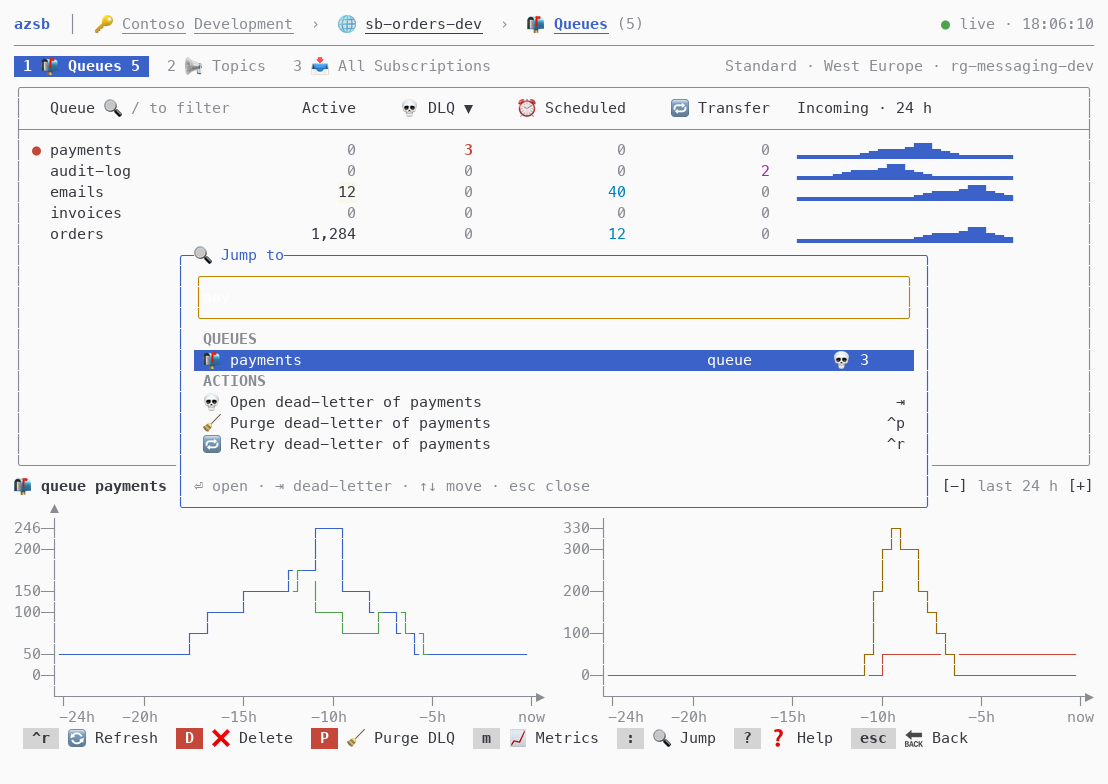
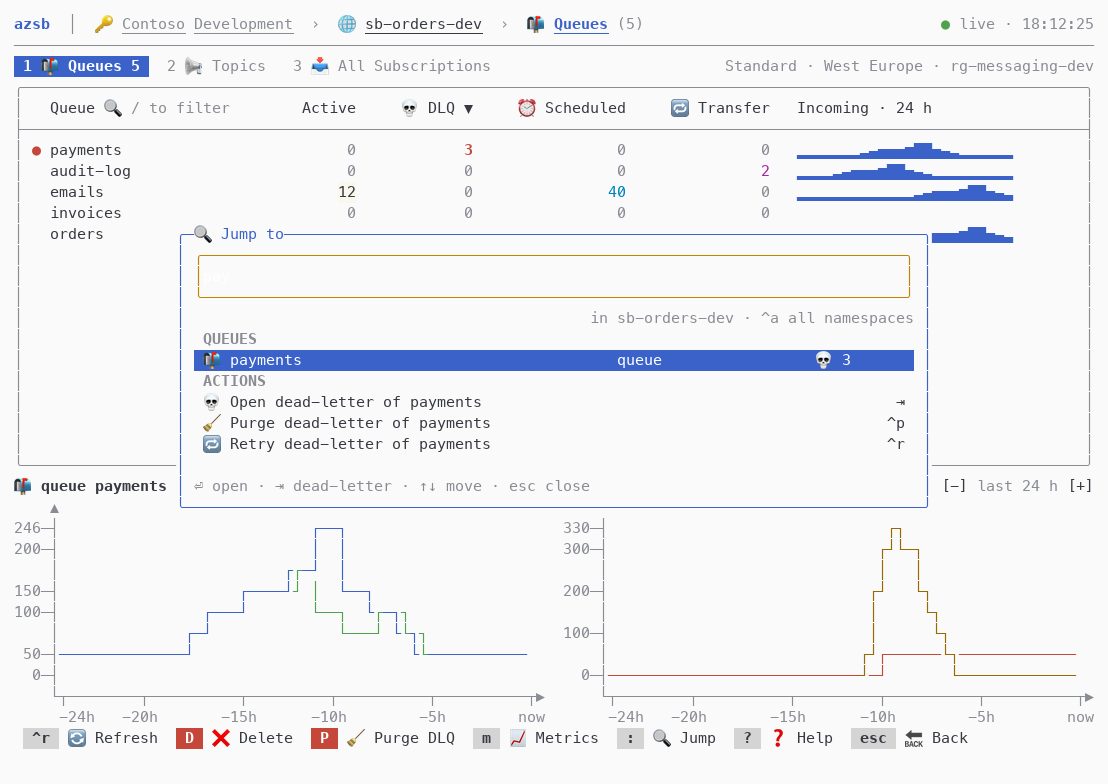
Jump to other namespaces; ^a searches all namespaces
- Other namespaces from the cached listings of the account's subscriptions, under OTHER NAMESPACES with their subscription
- ^a adds every other namespace's cached queues, topics and subscriptions (no requests); scope line under the input
- Opening one switches subscription and namespace like the header picker, then opens the queues or the entity
- Same-route jumps remount the page (`NavigationState.Reload`); `CacheKeys.Namespaces` shared with the caching service
- Closes #132

diff --git a/tests/ServiceBusConsole.Tests/JumpTests.cs b/tests/ServiceBusConsole.Tests/JumpTests.cs
@@ -1,4 +1,5 @@
 using Microsoft.Extensions.DependencyInjection;
+using Microsoft.Extensions.Logging.Abstractions;
 using RazorConsole.Testing;
 
 namespace ServiceBusConsole.Tests;
@@ -42,6 +43,27 @@ public sealed class JumpTests
         groups[0].Targets.Select(t => t.Name).ShouldBe(["payments", "payments-retry"]);
         groups[1].Targets.Select(t => t.Name).ShouldBe(["order-events/payments"]);
         JumpIndex.Grouped("order", Targets).Select(g => g.Kind).ShouldBe([JumpKind.Queue, JumpKind.Topic, JumpKind.Subscription]);
+    }
+
+    private static readonly JumpNamespace Production = new(new AzureSubscription("Contoso Production", "prod-id"), new NamespaceInfo
+    {
+        Name = "sb-payments-prd", FullyQualifiedNamespace = "sb-payments-prd.servicebus.windows.net", ResourceGroup = "rg-prd", Location = "West Europe", Sku = "Standard",
+    });
+
+    [Test]
+    public void Search_PutsTheCurrentNamespaceFirst_AndNamespacesInTheirOwnGroup()
+    {
+        JumpTarget[] targets =
+        [
+            new JumpTarget.Queue(new QueueInfo { Name = "payments" }) { Elsewhere = Production },
+            new JumpTarget.Queue(new QueueInfo { Name = "payments" }),
+            new JumpTarget.Namespace(Production),
+        ];
+
+        JumpIndex.Search("pay", targets).Select(t => t.OtherNamespace).ShouldBe([null, Production, Production]);
+        var groups = JumpIndex.Grouped("pay", targets);
+        groups.Select(g => g.Kind).ShouldBe([JumpKind.Queue, JumpKind.Namespace]);
+        groups[1].Targets.Single().Name.ShouldBe("sb-payments-prd");
     }
 
     [Test]
@@ -175,4 +197,62 @@ public sealed class JumpTests
         var frame = await terminal.WaitUntilAsync(f => f.ContainsText("📬 orders") && !f.ContainsText("📬 payments"), AppHarness.Timeout, cancellationToken: Ct);
         frame.ContainsText(" ACTIONS").ShouldBeFalse(frame.ScreenText);
     }
+
+    // Development is open; Production's namespace and its queues are only in the cache.
+    private static async Task<(AppHarness App, HeadlessTerminal Terminal)> JumpFromDevelopmentAsync()
+    {
+        var app = new AppHarness();
+        app.Namespaces.Subscriptions.Add(Production.Subscription);
+        app.Queues.Queues.Add(new QueueInfo { Name = "orders" });
+        var cache = new FileCache(NullLogger<FileCache>.Instance, app.CacheDirectory);
+        await cache.SaveAsync(CacheKeys.Namespaces("prod-id"), [Production.Info]);
+        await cache.SaveAsync(CacheKeys.Queues(Production.Info), [new QueueInfo { Name = "refunds", DeadLetterMessageCount = 4 }]);
+        var terminal = await app.OpenAzureAsync(ConsoleKey.F1);
+        await terminal.WaitForTextAsync("Queues (1)", AppHarness.Timeout, Ct);
+        var table = terminal.FocusKey;
+        await terminal.SendKeyAsync(ConsoleKey.Oem1, ':', ConsoleModifiers.Shift, Ct);
+        await AppHarness.WaitForFocusAsync(terminal, "100", table);
+        await terminal.WaitForTextAsync("in sb-orders-dev · ^a all namespaces", AppHarness.Timeout, Ct);
+        return (app, terminal);
+    }
+
+    [Test]
+    public async Task ANamespaceOfAnotherSubscription_SwitchesTheConnection()
+    {
+        var (app, terminal) = await JumpFromDevelopmentAsync();
+        await using var _ = terminal;
+
+        await terminal.TypeAsync("prd", Ct);
+        var frame = await terminal.WaitForTextAsync("🌐 sb-payments-prd", AppHarness.Timeout, Ct);
+        frame.ContainsText(" OTHER NAMESPACES").ShouldBeTrue(frame.ScreenText);
+        frame.ContainsText("Contoso Production").ShouldBeTrue(frame.ScreenText);
+        await terminal.SendKeyAsync(ConsoleKey.Enter, '\r', cancellationToken: Ct);
+
+        await terminal.WaitUntilAsync(f => f.GetLine(0).Contains("sb-payments-prd") && f.GetLine(0).Contains("Contoso Production"), AppHarness.Timeout, cancellationToken: Ct);
+        app.Connection.CurrentNamespace.ShouldBe(Production.Info.FullyQualifiedNamespace);
+        app.NavState.AzureSubscription.ShouldBe(Production.Subscription);
+    }
+
+    [Test]
+    public async Task CtrlA_SearchesTheCachedEntitiesOfAllNamespaces()
+    {
+        var (app, terminal) = await JumpFromDevelopmentAsync();
+        await using var _ = terminal;
+
+        await terminal.TypeAsync("refu", Ct);
+        await terminal.WaitForTextAsync("Nothing matches.", AppHarness.Timeout, Ct);
+        await terminal.SendKeyAsync(ConsoleKey.A, '\u0001', ConsoleModifiers.Control, Ct);
+        var frame = await terminal.WaitForTextAsync("📬 refunds", AppHarness.Timeout, Ct);
+        frame.ContainsText("in all namespaces · ^a sb-orders-dev only").ShouldBeTrue(frame.ScreenText);
+        Line(frame, "📬 refunds").ShouldContain("sb-payments-prd");
+        await terminal.SendKeyAsync(ConsoleKey.Tab, '\t', cancellationToken: Ct);
+
+        await terminal.WaitUntilAsync(f => f.GetLine(0).Contains("sb-payments-prd") && f.GetLine(0).Contains("refunds"), AppHarness.Timeout, cancellationToken: Ct);
+        await terminal.WaitUntilAsync(_ => app.Messages.Peeked.Count > 0, AppHarness.Timeout, cancellationToken: Ct);
+        app.Messages.Peeked.ShouldBe([new MessageSource.Queue("refunds", IsDlq: true)]);
+        app.Connection.CurrentNamespace.ShouldBe(Production.Info.FullyQualifiedNamespace);
+    }
+
+    private static string Line(TerminalFrame frame, string text)
+        => frame.GetLine(Enumerable.Range(0, frame.Height).First(y => frame.GetLine(y).Contains(text)));
 }

diff --git a/src/ServiceBusConsole/UI/JumpTarget.cs b/src/ServiceBusConsole/UI/JumpTarget.cs
@@ -1,34 +1,47 @@
 namespace ServiceBusConsole.UI;
 
-/// <summary>Something the jump dialog (<c>:</c>) can open in the current namespace.</summary>
+/// <summary>Something the jump dialog (<c>:</c>) can open: an entity of the current namespace or, from the cache, of another one, or another namespace.</summary>
 public abstract record JumpTarget
 {
     public sealed record Queue(QueueInfo Info) : JumpTarget
     {
-        public override T Match<T>(Func<Queue, T> queue, Func<Topic, T> topic, Func<Subscription, T> subscription) => queue(this);
+        public override T Match<T>(Func<Queue, T> queue, Func<Topic, T> topic, Func<Subscription, T> subscription, Func<Namespace, T> ns) => queue(this);
     }
 
     public sealed record Topic(TopicInfo Info) : JumpTarget
     {
-        public override T Match<T>(Func<Queue, T> queue, Func<Topic, T> topic, Func<Subscription, T> subscription) => topic(this);
+        public override T Match<T>(Func<Queue, T> queue, Func<Topic, T> topic, Func<Subscription, T> subscription, Func<Namespace, T> ns) => topic(this);
     }
 
     public sealed record Subscription(SubscriptionInfo Info) : JumpTarget
     {
-        public override T Match<T>(Func<Queue, T> queue, Func<Topic, T> topic, Func<Subscription, T> subscription) => subscription(this);
+        public override T Match<T>(Func<Queue, T> queue, Func<Topic, T> topic, Func<Subscription, T> subscription, Func<Namespace, T> ns) => subscription(this);
+    }
+
+    /// <summary>Another namespace; opening it switches the connection.</summary>
+    public sealed record Namespace(JumpNamespace Place) : JumpTarget
+    {
+        public override T Match<T>(Func<Queue, T> queue, Func<Topic, T> topic, Func<Subscription, T> subscription, Func<Namespace, T> ns) => ns(this);
     }
 
     /// <summary>Exhaustive: one function per kind of target.</summary>
-    public abstract T Match<T>(Func<Queue, T> queue, Func<Topic, T> topic, Func<Subscription, T> subscription);
+    public abstract T Match<T>(Func<Queue, T> queue, Func<Topic, T> topic, Func<Subscription, T> subscription, Func<Namespace, T> ns);
+
+    /// <summary>The other namespace an entity is in (found with <c>^a</c>); null in the current one.</summary>
+    public JumpNamespace? Elsewhere { get; init; }
+
+    /// <summary>Where opening it goes: another namespace's own, or an entity's elsewhere; null in the current one.</summary>
+    public JumpNamespace? OtherNamespace => this is Namespace ns ? ns.Place : Elsewhere;
 
     /// <summary>What a query matches: the name, "topic/subscription" for a subscription.</summary>
-    public string Name => Match(q => q.Info.Name, t => t.Info.Name, s => $"{s.Info.TopicName}/{s.Info.Name}");
+    public string Name => Match(q => q.Info.Name, t => t.Info.Name, s => $"{s.Info.TopicName}/{s.Info.Name}", n => n.Place.Info.Name);
 
-    public string Label => Match(q => $"{Icons.Queue} {q.Info.Name}", t => $"{Icons.Topic} {t.Info.Name}", s => $"{Icons.Subscription} {s.Info.TopicName} › {s.Info.Name}");
+    public string Label => Match(q => $"{Icons.Queue} {q.Info.Name}", t => $"{Icons.Topic} {t.Info.Name}", s => $"{Icons.Subscription} {s.Info.TopicName} › {s.Info.Name}",
+        n => $"{Icons.Namespace} {n.Place.Info.Name}");
 
-    public string Kind => Match(_ => UIStrings.JumpTarget_Queue, _ => UIStrings.JumpTarget_Topic, _ => UIStrings.JumpTarget_Subscription);
+    public string Kind => Match(_ => UIStrings.JumpTarget_Queue, _ => UIStrings.JumpTarget_Topic, _ => UIStrings.JumpTarget_Subscription, _ => UIStrings.JumpTarget_Namespace);
 
-    public JumpKind Group => Match(_ => JumpKind.Queue, _ => JumpKind.Topic, _ => JumpKind.Subscription);
+    public JumpKind Group => Match(_ => JumpKind.Queue, _ => JumpKind.Topic, _ => JumpKind.Subscription, _ => JumpKind.Namespace);
 
-    public long DeadLetters => Match(q => q.Info.DeadLetterMessageCount, _ => 0, s => s.Info.DeadLetterMessageCount);
+    public long DeadLetters => Match(q => q.Info.DeadLetterMessageCount, _ => 0, s => s.Info.DeadLetterMessageCount, _ => 0);
 }

diff --git a/src/ServiceBusConsole/UI/JumpTargets.cs b/src/ServiceBusConsole/UI/JumpTargets.cs
@@ -1,8 +1,9 @@
 namespace ServiceBusConsole.UI;
 
-/// <summary>The queues, topics and subscriptions of a namespace, from the cached listings, or live when one isn't cached yet.</summary>
+/// <summary>What the jump dialog searches: the current namespace's entities, and from the cache only other namespaces and their entities.</summary>
 public static class JumpTargets
 {
+    /// <summary>The queues, topics and subscriptions of a namespace, from the cached listings, or live when one isn't cached yet.</summary>
     public static async Task<IReadOnlyList<JumpTarget>> LoadAsync(IServiceBusNamespace current, FileCache cache)
     {
         var ns = current.Info;
@@ -10,8 +11,27 @@ public static class JumpTargets
         if (current is not IHasTopics { Topics: var topicService }) return [.. queues.Select(q => new JumpTarget.Queue(q))];
         var topics = await cache.LoadAsync<TopicInfo>(CacheKeys.Topics(ns)) ?? await topicService.GetTopicsAsync().ToListAsync();
         var subscriptions = await cache.LoadAsync<SubscriptionInfo>(CacheKeys.AllSubscriptions(ns)) ?? await topicService.GetAllSubscriptionsAsync().ToListAsync();
-        return [.. queues.Select(q => (JumpTarget)new JumpTarget.Queue(q)),
-                .. topics.Select(t => new JumpTarget.Topic(t)),
-                .. subscriptions.Select(s => new JumpTarget.Subscription(s))];
+        return Entities(queues, topics, subscriptions, elsewhere: null);
     }
+
+    /// <summary>The namespaces cached for <paramref name="subscriptions"/>; the emulator has no listing.</summary>
+    public static async Task<IReadOnlyList<JumpNamespace>> NamespacesAsync(IEnumerable<AzureSubscription> subscriptions, FileCache cache)
+    {
+        var lists = await Task.WhenAll(subscriptions.Select(async s => s.Id is { } id
+            ? (await cache.LoadAsync<NamespaceInfo>(CacheKeys.Namespaces(id)) ?? []).Select(ns => new JumpNamespace(s, ns))
+            : []));
+        return [.. lists.SelectMany(l => l)];
+    }
+
+    /// <summary>Another namespace's entities from its cached listings only: searching all namespaces makes no requests.</summary>
+    public static async Task<IReadOnlyList<JumpTarget>> CachedAsync(JumpNamespace place, FileCache cache) =>
+        Entities(await cache.LoadAsync<QueueInfo>(CacheKeys.Queues(place.Info)) ?? [],
+            await cache.LoadAsync<TopicInfo>(CacheKeys.Topics(place.Info)) ?? [],
+            await cache.LoadAsync<SubscriptionInfo>(CacheKeys.AllSubscriptions(place.Info)) ?? [],
+            place);
+
+    private static IReadOnlyList<JumpTarget> Entities(IEnumerable<QueueInfo> queues, IEnumerable<TopicInfo> topics, IEnumerable<SubscriptionInfo> subscriptions, JumpNamespace? elsewhere) =>
+        [.. queues.Select(q => (JumpTarget)new JumpTarget.Queue(q) { Elsewhere = elsewhere }),
+            .. topics.Select(t => new JumpTarget.Topic(t) { Elsewhere = elsewhere }),
+            .. subscriptions.Select(s => new JumpTarget.Subscription(s) { Elsewhere = elsewhere })];
 }

diff --git a/src/ServiceBusConsole/UI/JumpIndex.cs b/src/ServiceBusConsole/UI/JumpIndex.cs
@@ -2,7 +2,7 @@ namespace ServiceBusConsole.UI;
 
 /// <summary>
 /// Ranks jump targets for a query: names starting with it first, then containing it, then holding its letters in order
-/// ("pmt" finds "payments"); within each, dead letters first, then by name. An empty query lists dead letters first.
+/// ("pmt" finds "payments"); within each, dead letters first, then the current namespace's, then by name. An empty query lists dead letters first.
 /// </summary>
 public static class JumpIndex
 {
@@ -14,12 +14,13 @@ public static class JumpIndex
             .Where(r => r.Rank is not null)
             .OrderBy(r => r.Rank)
             .ThenByDescending(r => r.Target.DeadLetters)
+            .ThenBy(r => r.Target.Elsewhere is not null)
             .ThenBy(r => r.Target.Name, StringComparer.OrdinalIgnoreCase)
             .Take(max)
             .Select(r => r.Target)];
     }
 
-    /// <summary>The <see cref="Search"/> results by kind (queues, topics, subscriptions), keeping their rank within each.</summary>
+    /// <summary>The <see cref="Search"/> results by kind (queues, topics, subscriptions, namespaces), keeping their rank within each.</summary>
     public static IReadOnlyList<JumpGroup> Grouped(string? query, IEnumerable<JumpTarget> targets, int max = 12) =>
         [.. Search(query, targets, max).GroupBy(t => t.Group).OrderBy(g => g.Key).Select(g => new JumpGroup(g.Key, [.. g]))];
 

diff --git a/src/ServiceBusConsole/Services/Caching/CachingNamespaceService.cs b/src/ServiceBusConsole/Services/Caching/CachingNamespaceService.cs
@@ -11,7 +11,7 @@ public sealed class CachingNamespaceService(INamespaceService inner, FileCache c
     public Task<string?> GetCurrentSubscriptionIdAsync(CancellationToken ct = default) => inner.GetCurrentSubscriptionIdAsync(ct);
 
     public IAsyncEnumerable<NamespaceInfo> GetNamespacesAsync(string subscriptionId, CancellationToken ct = default) =>
-        cache.CachedThenLiveAsync($"{subscriptionId}/namespaces.json", () => inner.GetNamespacesAsync(subscriptionId, ct), ns => ns, ct);
+        cache.CachedThenLiveAsync(CacheKeys.Namespaces(subscriptionId), () => inner.GetNamespacesAsync(subscriptionId, ct), ns => ns, ct);
 
     public async IAsyncEnumerable<bool> HasNamespacesAsync(string subscriptionId, [EnumeratorCancellation] CancellationToken ct = default)
     {

diff --git a/src/ServiceBusConsole/Services/Caching/CacheKeys.cs b/src/ServiceBusConsole/Services/Caching/CacheKeys.cs
@@ -5,6 +5,7 @@ namespace ServiceBusConsole.Services.Caching;
 /// <summary>Where a namespace's listings are cached, so deleting an entity can drop it from them.</summary>
 public static class CacheKeys
 {
+    public static string Namespaces(string subscriptionId) => $"{subscriptionId}/namespaces.json";
     public static string Queues(NamespaceInfo ns) => $"{ns.FullyQualifiedNamespace}/queues.json";
     public static string Topics(NamespaceInfo ns) => $"{ns.FullyQualifiedNamespace}/topics.json";
     public static string AllSubscriptions(NamespaceInfo ns) => $"{ns.FullyQualifiedNamespace}/all-subscriptions.json";

diff --git a/src/ServiceBusConsole/UI/NavigationState.cs b/src/ServiceBusConsole/UI/NavigationState.cs
@@ -31,7 +31,8 @@ public sealed class NavigationState
             {
                 (TopicName, SubscriptionName, ReturnPath) = (s.Info.TopicName, s.Info.Name, "/subscriptions");
                 return "/subscription-browser";
-            });
+            },
+            _ => Section.Queues.Route);
     }
 
     /// <summary>Where the command line asked to start; the first connection page takes it, later visits start as usual.</summary>

diff --git a/src/ServiceBusConsole/UI/JumpNamespace.cs b/src/ServiceBusConsole/UI/JumpNamespace.cs
@@ -1,0 +1,8 @@
+namespace ServiceBusConsole.UI;
+
+/// <summary>A namespace and the Azure subscription it is listed under.</summary>
+public sealed record JumpNamespace(AzureSubscription Subscription, NamespaceInfo Info)
+{
+    public bool Is(AzureSubscription? subscription, string? fullyQualifiedNamespace) =>
+        Subscription == subscription && Info.FullyQualifiedNamespace == fullyQualifiedNamespace;
+}

diff --git a/src/ServiceBusConsole/UI/JumpGroup.cs b/src/ServiceBusConsole/UI/JumpGroup.cs
@@ -7,6 +7,7 @@ public sealed record JumpGroup(JumpKind Kind, IReadOnlyList<JumpTarget> Targets)
     {
         JumpKind.Queue => Strings.Queues,
         JumpKind.Topic => Strings.Topics,
-        _ => Strings.Subscriptions,
+        JumpKind.Subscription => Strings.Subscriptions,
+        _ => UIStrings.JumpGroup_OtherNamespaces,
     };
 }

diff --git a/src/ServiceBusConsole/UI/JumpKind.cs b/src/ServiceBusConsole/UI/JumpKind.cs
@@ -1,4 +1,4 @@
 namespace ServiceBusConsole.UI;
 
 /// <summary>The jump dialog's result groups, in the order it shows them.</summary>
-public enum JumpKind { Queue, Topic, Subscription }
+public enum JumpKind { Queue, Topic, Subscription, Namespace }

diff --git a/CLAUDE.md b/CLAUDE.md
@@ -129,7 +129,7 @@ This is a .NET 10 terminal UI app that browses Azure Service Bus namespaces, que
 - Text a user can override with placeholders of their own (`ClaudePrompt.Default`) and generated documents for tools (`SessionMarkdown`, issue bodies) stay in code
 - In scope: labels, key hints, titles, dialogs, status, errors shown in the UI or CLI (including exception messages that reach `ErrorModal`), CLI help and output, plugin labels, settings descriptions and results. Not: log messages, config keys, routes, queries (KQL), CLI option names, icons (`Icons`), test expectations (tests keep literal English, so they catch text changes)
 
-**Keys:** a page lists its keys once as `KeyBinding`s (`Keys` property); `KeyHints` renders the footer from them, `HelpDialog` (`?`) lists them all and `KeyBinding.Dispatch` runs them from `HandleKeyDown`, after `AsyncCommand.HandleKey` (y/n) and the filter. Letters are commands, Shift for anything that deletes or moves messages (`D`, `P`, `R`, `X`), `^r` refresh; each F-key of earlier versions stays as an `Aliases` entry. `:` opens `JumpDialog` on the section lists and the browser: `JumpIndex.Search` (pure, prefix > contains > letters in order, dead letters first) over the namespace's queues, topics and subscriptions, from the cached listings or live when not cached, shown by kind (`JumpIndex.Grouped`); `⏎` opens the Active tab, `⇥` the dead-letter queue. A match with dead letters lists actions (`^p` purge, `^r` retry): they open its dead-letter browser with `NavigationState.StartCommand`, which runs its own purge or retry-all after the first peek. Lists filter on `/` (`ListFilter`: typing edits, Enter keeps, Escape clears; `NavigableTBody.TakeKey` lets Enter end the edit); only the header dropdown filters as you type. `KeyButton` doesn't forward Space or Enter to the page: they click it.
+**Keys:** a page lists its keys once as `KeyBinding`s (`Keys` property); `KeyHints` renders the footer from them, `HelpDialog` (`?`) lists them all and `KeyBinding.Dispatch` runs them from `HandleKeyDown`, after `AsyncCommand.HandleKey` (y/n) and the filter. Letters are commands, Shift for anything that deletes or moves messages (`D`, `P`, `R`, `X`), `^r` refresh; each F-key of earlier versions stays as an `Aliases` entry. `:` opens `JumpDialog` on the section lists and the browser: `JumpIndex.Search` (pure, prefix > contains > letters in order, dead letters first) over the namespace's queues, topics and subscriptions, from the cached listings or live when not cached, shown by kind (`JumpIndex.Grouped`); `⏎` opens the Active tab, `⇥` the dead-letter queue. A match with dead letters lists actions (`^p` purge, `^r` retry): they open its dead-letter browser with `NavigationState.StartCommand`, which runs its own purge or retry-all after the first peek. Other namespaces (cached listings of `SubscriptionCatalog`'s subscriptions) are targets too, and `^a` adds their cached entities (`JumpTargets.CachedAsync`, never live); opening one switches the connection like the header picker. Lists filter on `/` (`ListFilter`: typing edits, Enter keeps, Escape clears; `NavigableTBody.TakeKey` lets Enter end the edit); only the header dropdown filters as you type. `KeyButton` doesn't forward Space or Enter to the page: they click it.
 
 **Focus:** request focus once with `FocusManager.FocusAsync`; it keeps the request until the target renders. A retry loop can replace a later request (e.g. a dialog's OK) with one for an element that is gone.
 
